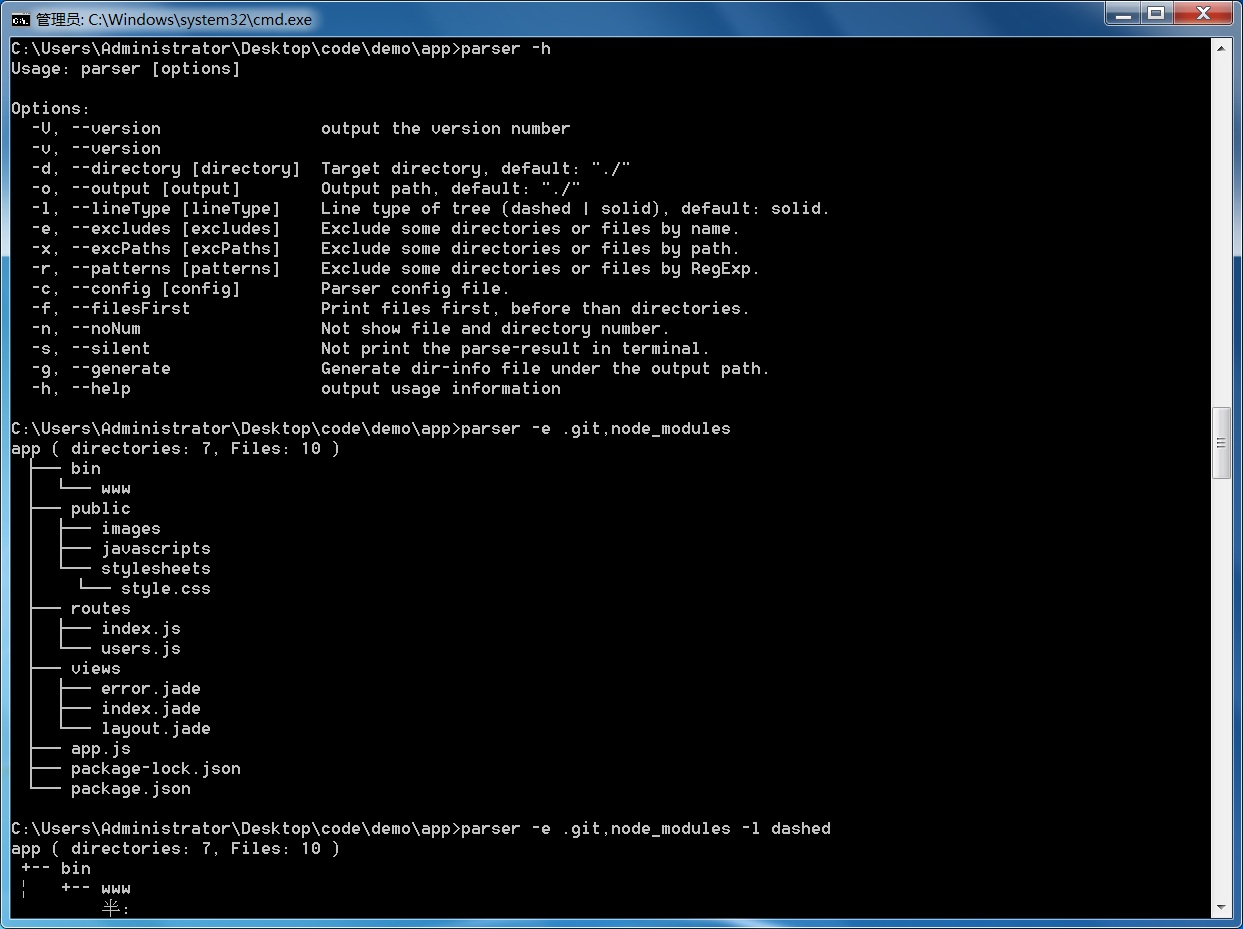
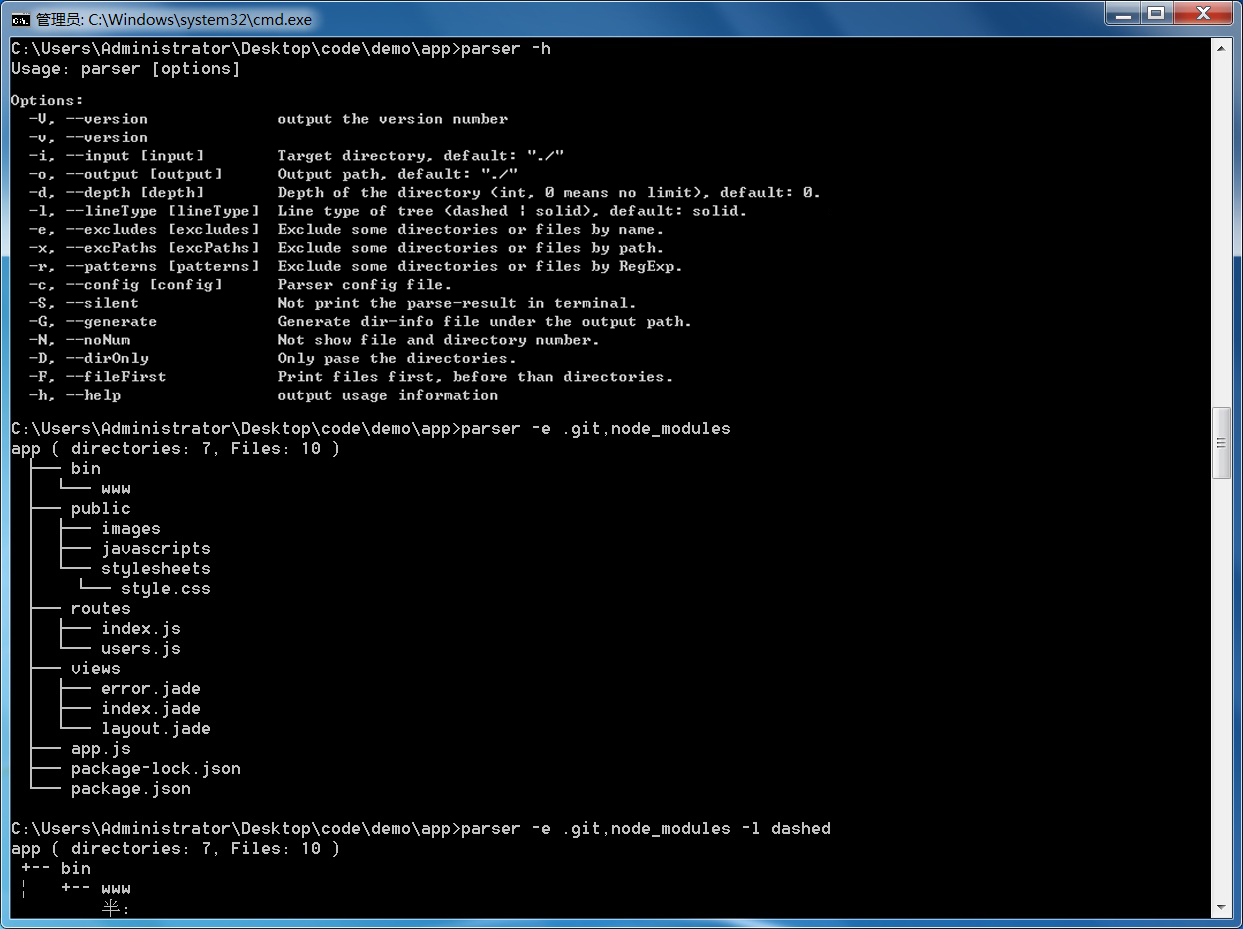
optimize

Changed region(s): [[0.0, 0.0936, 0.642, 0.437]]

diff --git a/index.d.ts b/index.d.ts
@@ -9,16 +9,18 @@ declare namespace parser {
   }
 
   interface Options {
-    output?: string;               // path string
+    output?: string;
     lineType?: 'solid' | 'dashed';
-    excludes?: Array<string>;      // eg: [ '.git', 'node_modules', '.idea' ];
-    excPaths?: Array<string>;      // eg: [ 'src/app' ];
-    patterns?: Array<string>;      // eg: [ 'src/*.js ]';
-    filesFirst?: boolean;
+    depth?: number;
     noNum?: boolean;
+    dirOnly?: boolean;
+    fileFirst?: boolean;
     files?: boolean;
     children?: boolean;
     dirTree?: boolean;
+    excludes?: Array<string>;      // eg: [ '.git', 'node_modules', '.idea' ];
+    excPaths?: Array<string>;      // eg: [ 'src/app' ];
+    patterns?: Array<string>;      // eg: [ 'src/*.js ]';
   }
 
   interface Parsed extends DirInfo {
